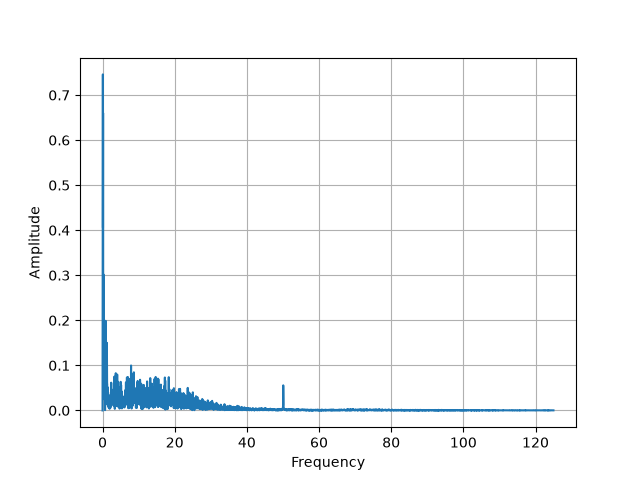
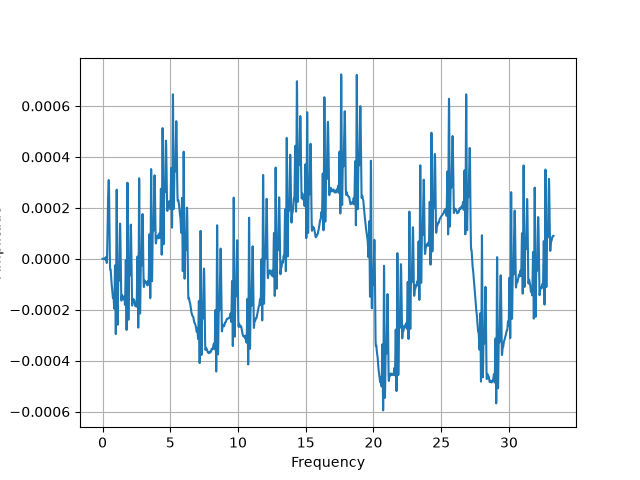
JM - implement a low-pass FIR filter with a kaiser window

diff --git a/ecg.py b/ecg.py
@@ -1,28 +1,64 @@
 import matplotlib.pyplot as plt
+import scipy.signal as scipy
 import numpy as np
 
 tsv = np.loadtxt("James_ecg_1.tsv", delimiter='\t')
 ecg_signal = tsv[:,8].copy()
 ecg_signal = ecg_signal - np.mean(ecg_signal) # remove DC shift from the signal
-N = len(ecg_signal)
 
+num_samples = len(ecg_signal)
 sample_rate = 250 #(Hz)
-measurement_time = N // sample_rate
 
-ft = np.fft.fft(ecg_signal)
-nyquist_mag = np.abs(ft)[:N // 2]
+nyq_samples = num_samples // 2
+nyq_rate = sample_rate / 2
 
-frequency = np.linspace(0, sample_rate // 2 , N // 2 , endpoint = False) # Generate the discrete frequency bins for the fourier transform
-t=np.linspace(0 , measurement_time , N) # Creates an x axis for the time domain with the correct number of samples in the measurement time
+measurement_time = num_samples / sample_rate
+
+# Creates an x axis for the time domain with the correct number of samples in the measurement time
+t = np.linspace(0 , measurement_time , num_samples)
+
+# Generate the discrete frequency bins for the fourier transform
+frequency = np.linspace(0, nyq_rate , nyq_samples , endpoint = False)
+
+# desired width of the transition window
+width = 5/nyq_rate
+
+# The desired attenuation in the stop band, in dB
+ripple_dB = 60
+
+# Compute the order and Kaiser parameter for the FIR filter
+N, beta = scipy.kaiserord(ripple_dB, width)
+
+# The cutoff frequency for the filter
+cutoff_Hz = 10
+
+# use the firwin function with the kaiser window to generate a lowpass FIR filter
+taps = scipy.firwin(N, cutoff_Hz/nyq_rate, window=('kaiser', beta))
+
+# use lfilter to filter x with the FIR filter
+filtered_ecg_signal = scipy.lfilter(taps, 1, ecg_signal)
+
+# Generate frequency Spectrum
+raw_nyq_fft = np.abs(np.fft.fft(ecg_signal))[:num_samples // 2]
+filtered_nyq_fft = np.abs(np.fft.fft(filtered_ecg_signal))[:num_samples // 2]
 
 plt.figure()
 plt.plot(t,ecg_signal)
-plt.savefig("ecg_time_domain.png")
+plt.savefig("ecg_raw_time_domain.png")
+
 plt.figure()
-plt.plot(frequency,nyquist_mag)
-plt.xlabel("Frequency")
-plt.ylabel("Amplitude")
+plt.plot(t, filtered_ecg_signal)
+plt.savefig("ecg_filtered_time_domain.png")
+
+plt.figure()
+plt.plot(frequency, raw_nyq_fft)
 plt.grid(True)
-plt.savefig("ecg_frequency_domain.png")
+plt.savefig("ecg_raw_frequency_domain")
+
+plt.figure()
+plt.plot(frequency, filtered_nyq_fft)
+plt.grid(True)
+plt.savefig("ecg_filtered_frequency_domain")
+
 plt.show()
 plt.close()
